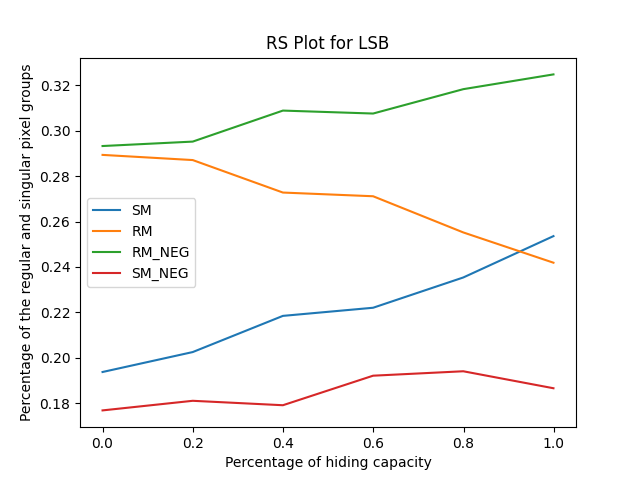
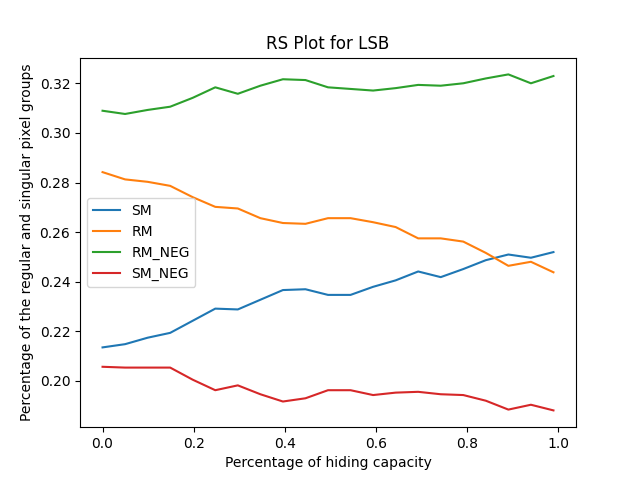
Merge changes

diff --git a/pvd.py b/pvd.py
@@ -1,0 +1,171 @@
+import cv2
+import math
+import numpy as np
+import numpy.typing as npt
+from image import Image
+from typing import Tuple, Union
+
+DctArray = npt.NDArray[np.int32]
+
+
+def _hide_pvd(cover_img: DctArray, data: bytes, key: int) -> DctArray:
+    # let key = threshold
+    # cover_img is not greyscale
+
+    # TODO Fix issue with ending of message
+    if len(cover_img.shape) != 3:
+        raise ValueError("cover_img must be an array of rgb")
+    
+    threshold = key
+    secret_bits = _bytes_to_bitarray(data)
+    assert secret_bits.shape[0] == len(data)*8
+    start = 0
+
+    stego_img = np.zeros(cover_img.shape, dtype = np.uint8)
+
+    for r in range(cover_img.shape[0]):
+        for c in range(cover_img.shape[1]):
+            rg_pair = cover_img[r, c, :2].astype(np.float64)
+            gb_pair = cover_img[r, c, 1:].astype(np.float64)
+
+            t1 = abs(rg_pair[0] - rg_pair[1])
+            t2 = abs(gb_pair[0] - gb_pair[1])
+            if t1 + t2 < threshold and start < len(secret_bits):
+                prev_start = start
+                rg_pair_new, start = _pvd_encrypt(rg_pair, secret_bits, start)
+                gb_pair_new = gb_pair
+                if start < len(secret_bits):
+                    gb_pair_new, start = _pvd_encrypt(gb_pair, secret_bits, start)
+                
+                g_new = 1.0*round((rg_pair_new[1] + gb_pair_new[0])/2.0)
+                r_new = rg_pair_new[0] - (rg_pair_new[1] - g_new)
+                b_new = gb_pair_new[1] - (gb_pair_new[0] - g_new)
+
+                # check to see if at above threshold or pixels out of bound, re-embed
+                if abs(r_new - g_new) + abs(g_new - b_new) >= threshold or r_new < 0 or r_new > 255 or g_new < 0 or g_new > 255 or b_new < 0 or b_new > 255:
+                    start = prev_start
+                stego_img[r, c, :] = np.array([r_new, g_new, b_new], dtype = np.uint8)
+            else:
+                stego_img[r, c, :] = cover_img[r, c, :]
+    return stego_img
+
+def _recover_pvd(stego_img:  DctArray, key: int) -> bytes:
+    if len(stego_img.shape) != 3:
+        raise ValueError("stego_img must be an array of rgb")
+    
+    threshold = key
+    secret_bits = np.array([], dtype = np.uint8)
+    rc_pairs = []
+    for r in range(stego_img.shape[0]):
+        for c in range(stego_img.shape[1]):
+            rgb_stego = stego_img[r, c, :]
+
+            t1 = abs(float(rgb_stego[0]) - float(rgb_stego[1]))
+            t2 = abs(float(rgb_stego[1]) - float(rgb_stego[2]))
+
+            if t1 + t2 < threshold:
+                extract_secret_bits = np.concatenate((_pvd_decrypt(rgb_stego[:2]), _pvd_decrypt(rgb_stego[1:])))
+                secret_bits = np.concatenate((secret_bits, extract_secret_bits))
+
+                rc_pairs.append((r, c))
+
+    secret_bytes = _bitarray_to_bytes(secret_bits)
+    return secret_bytes
+
+### HELPER FUNCTIONS
+
+def _pvd_get_range(d_old: np.uint8) -> Tuple:
+    # get the quantize range for given block
+    quantize_ranges = [(0, 7), (8, 15), (16, 31), (32, 63), (64, 127), (128, 255)]
+
+    lower, upper = -1, -1
+    for quantize_lower, quantize_upper in quantize_ranges:
+        if d_old >= quantize_lower and d_old <= quantize_upper:
+            lower, upper = quantize_lower, quantize_upper
+            break
+    return lower, upper
+
+def _pvd_decrypt(block: cv2.Mat) -> npt.NDArray[np.uint8]:
+    # TODO: this almost works except near the end where the bits don't fill capacity
+    d_new = int(abs(float(block[0]) - float(block[1])))
+    lower, upper = _pvd_get_range(d_new)
+
+    t = math.floor(math.log2(upper - lower + 1)) # number of bits can store
+    extract_secret = [int(char) for char in bin(d_new - lower)[2:]]
+    
+    return np.array( [0] * (t - len(extract_secret)) + extract_secret , dtype = np.uint8)
+
+def _pvd_encrypt(block: cv2.Mat, secret_bits: npt.NDArray[np.uint8], start: int) -> Tuple:
+    """
+    :param block: is 1d 
+    :param secret_bits: the entire secret bit
+    :param start: where to start in the secret
+    :returns a tuple of the new pixel pair (cv2.Mat), next index to start secret_bits at
+
+    An RGB colour imagesteganography scheme using overlapping block-based pixel-value differencing
+    """
+    d_old = abs(block[0] - block[1])
+    lower, upper = _pvd_get_range(d_old)
+    t = math.floor(math.log2(upper - lower + 1)) # number of bits can store
+
+    bit_array = np.zeros((8,), dtype = np.uint8)
+    num_bits_left = min(t, len(secret_bits) - start)
+
+    # padding in case there are not enough bits left!
+    
+    bit_array[-num_bits_left:] = secret_bits[start:start+num_bits_left]
+    secret_to_hide = np.packbits(bit_array)[0]
+    
+
+    d_new = lower + secret_to_hide
+    m = d_new - d_old
+
+    return _pvd_get_stego_pixels(block, m), start+t
+
+
+def _pvd_get_stego_pixels(block: cv2.Mat, m: int) -> cv2.Mat:
+    """
+    :param block: is 1d 
+    :param m: difference of d' and d (NO ABS)
+    """
+    m_abs = abs(m)
+    if block[0] >= block[1] and m > 0:
+        return np.array([block[0] + math.ceil(m_abs/2.0), block[1] - math.floor(m_abs/2.0)])
+    elif block[0] < block[1] and m > 0:
+        return np.array([block[0] - math.floor(m_abs/2.0), block[1] + math.ceil(m_abs/2.0)])
+    elif block[0] >= block[1] and m <= 0:
+        return np.array([block[0] - math.ceil(m_abs/2.0), block[1] + math.floor(m_abs/2.0)])
+    else:
+        return np.array([block[0] + math.ceil(m_abs/2.0), block[1] - math.floor(m_abs/2.0)])
+    
+
+def _bitarray_to_bytes(bitarray: npt.NDArray[np.uint8]) -> bytes:
+    bitstring = ''.join(bitarray.astype(str))
+    return bytes([int(bitstring[8*i : 8*(i+1)], 2) for i in range(len(bitstring) // 8)])
+
+
+def _bytes_to_bitarray(data: bytes) -> npt.NDArray[np.uint8]:
+    bitstring = ''.join('{0:08b}'.format(byte) for byte in data)  # Separate individual bits
+    bitarray = np.array(list(bitstring), dtype=np.uint8)
+    return bitarray
+
+if __name__ == "__main__":
+
+    cover_img = Image.from_file('images/mit_1024x768.jpg').array
+    secret = Image.from_file('images/timthebeaver_128x96.jpg')
+    # with open('secret.txt', 'rb') as f:
+    #     secret = f.read()
+    
+    secret_bytes = secret.to_bytes() if not type(secret) == bytes else secret
+    encrypt = _hide_pvd(cover_img, secret_bytes, 60)
+    encrypt_img = Image(encrypt)
+    encrypt_img.save('output/mit_stego_PVD.jpg')
+    decrypt = _recover_pvd(encrypt, 60)
+
+
+    recovered_img = Image.from_bytes(decrypt[:len(secret_bytes)], secret.shape)
+    # recovered_img.show()
+    recovered_img.save('output/timthebeaver_recovered_mit_PVD.jpg')
+    
+    
+

diff --git a/plot_metrics.py b/plot_metrics.py
@@ -17,25 +17,26 @@ def plot_psnr_graph(cover_img: cv2.Mat, full_secret: bytes, file_to_save: str, h
     """
 
     # assume using grayscale for now
-    if len(cover_img.shape) == 3:
-        cover_img = cover_img[:, :, 0]
 
     size = np.prod(cover_img.shape)//8
     perc_increment = hidden_capacity_perc
-    stego_modes = [stego.Mode.LSB, stego.Mode.DCT_LSB]
+    stego_modes = [stego.Mode.LSB, stego.Mode.DCT]
     mode_to_psnr = {stego_method:[] for stego_method in stego_modes}
     x = []
 
+    # for pvd
+    int_key = 1000
+    key = int_key.to_bytes(2, 'big')
 
-    for hidden_capacity in range(1, size, size//perc_increment):
+    for hidden_capacity in range(50, size, size*perc_increment//100):
         for stego_method in mode_to_psnr:
             secret = full_secret[:hidden_capacity]
-            stego_img = stego.hide(Image(cover_img), secret, mode=stego_method).array if hidden_capacity > 0 else cover_img
+            stego_img = stego.hide(Image(cover_img), secret, stego_method).matrix if hidden_capacity > 0 else cover_img
 
-            cv2.imwrite(f"{stego_method.name}_{hidden_capacity/size * 100}.png", stego_img)
-
+            if stego_method == stego.Mode.PVD:
+                print(stego.recover(stego_img, stego_method, key=key))
             mode_to_psnr[stego_method].append(metriclib.get_psnr(cover_img, stego_img))
-        x.append(hidden_capacity)
+        x.append(hidden_capacity/size*100)
 
     # plotting
     fig, ax = plt.subplots()
@@ -68,11 +69,11 @@ def plot_rs_graph(cover_img: cv2.Mat, full_secret: bytes, file_to_save: str, hid
 
 
 
-    for hidden_capacity in range(0, size, size//perc_increment):
+    for hidden_capacity in range(0, size, size*perc_increment//100):
         secret = full_secret[:hidden_capacity]
         img = cover_img
         if stego_method:
-            img = stego.hide(Image(cover_img), secret, mode=stego_method).array  # NOTE: i changed the API; will tidy up later
+            img = stego.hide(Image(cover_img), secret, mode=stego_method).matrix  # NOTE: i changed the API; will tidy up later
         elif hidden_capacity == 0:
             img = cover_img.astype(np.float64)
         rm, sm, rm_neg, sm_neg = metriclib.get_rs(img)
@@ -104,8 +105,16 @@ if __name__ == "__main__":
     with open('secret.txt', 'rb') as f:
         secret_text = f.read()
 
+    img_types = ['charlesriver', 'mit', 'testimage1']
+    modes = [stego.Mode.LSB, stego.Mode.DCT]
 
+    # for img_type in img_types:
+    #     for mode in modes:
+    #         stego_img_array = Image.from_file(f"output/{img_type}_stego_{mode.name}.jpg").matrix
+    #         cover_img_array = Image.from_file(f"images/{img_type}_512x384.jpg").matrix
+
+    #         print(f"PSNR for {img_type} in mode {mode.name} = {metriclib.get_psnr(cover_img_array, stego_img_array)}")
     plot_rs_graph(cover_img.matrix, secret_text, 'rs_plot_LSB.png', stego_method=stego.Mode.LSB)
     plot_rs_graph(cover_img.matrix, secret_text, 'rs_plot_orig.png')
-    plot_rs_graph(cover_img.matrix, secret_text, 'rs_plot_DCT_LSB.png', stego_method=stego.Mode.DCT_LSB)
+    plot_rs_graph(cover_img.matrix, secret_text, 'rs_plot_DCT.png', stego_method=stego.Mode.DCT)
     plot_psnr_graph(cover_img.matrix, secret_text, 'psnr_plot.png')

diff --git a/steganography.py b/steganography.py
@@ -1,4 +1,5 @@
 import lsb
+import pvd
 from dct import dct, idct
 from enum import Enum, auto
 from image import Image
@@ -6,8 +7,8 @@ from image import Image
 class Mode(Enum):
     """Represents various mode of steganography supported by this package."""
     LSB = auto()
+    PVD = auto()
     DCT = auto()
-    JSTEG = auto()
 
 ### PUBLIC API
 
@@ -29,6 +30,8 @@ def hide(cover_img: Image, data: bytes, mode: Mode, **kwargs) -> Image:
         return _hide_lsb(cover_img, data, **kwargs)
     elif mode == Mode.DCT:
         return _hide_dct(cover_img, data, **kwargs)
+    elif mode == Mode.PVD:
+        return _hide_pvd(cover_img, data, **kwargs)
     else:
         raise ValueError('The given combination of mode and key is not supported')
 
@@ -48,12 +51,20 @@ def recover(stego_img: Image, mode: Mode, **kwargs) -> bytes:
         return _recover_lsb(stego_img, **kwargs)
     elif mode == Mode.DCT:
         return _recover_dct(stego_img, **kwargs)
+    elif mode == Mode.PVD:
+        return _recover_pvd(stego_img, **kwargs)
     else:
         raise ValueError('The given combination of mode and key is not supported')
 
 
 ### IMPLEMENTATION FUNCTIONS
 
+def _hide_pvd(cover_img: Image, data: bytes, key: int = 37) -> Image:
+    return Image(pvd._hide_pvd(cover_img.array, data, key))
+
+def _recover_pvd(stego_img: Image, key: int = 37) -> bytes:
+    return pvd._recover_pvd(stego_img.array, key)
+    
 def _hide_lsb(cover_img: Image, data: bytes, key: bytes = None, num_lsb: int = 1) -> Image:
     return Image(lsb.embed(cover_img.matrix, data, key, num_lsb))
 
